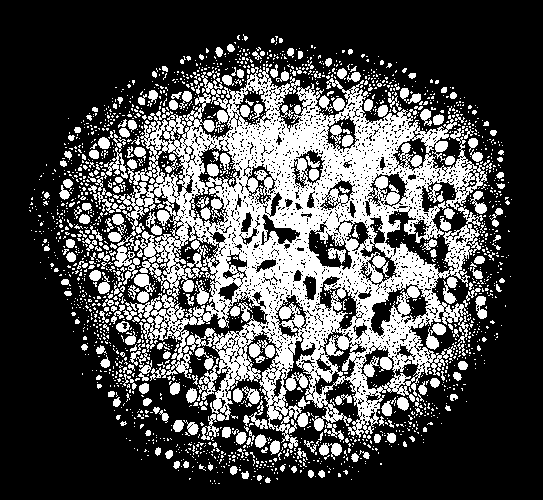
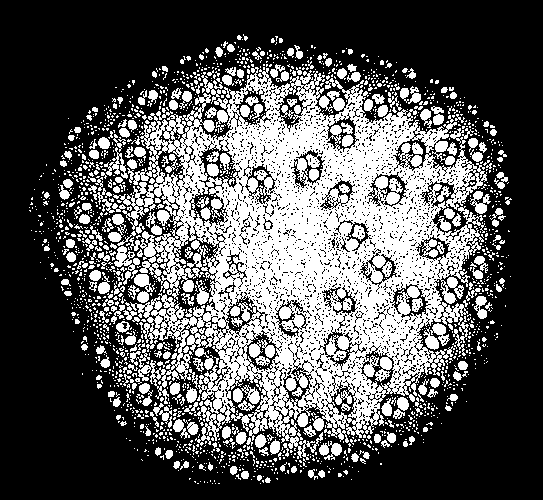
Rollback

diff --git a/morphological/main.py b/morphological/main.py
@@ -69,7 +69,7 @@ def to_binary(img):
     for i in range(img.shape[0]):
         for j in range(img.shape[1]):
             p = img[i, j]
-            if p[0] > 160 and p[2] > 120:
+            if p[0] > 160:
                 ret[i, j] = 255
     return ret
 
@@ -128,21 +128,6 @@ def main():
 
     img = to_binary(img)
     plt.imsave("binary.png", img, cmap="gray")
-    imshow(img)
-
-    img += remove_block(img, 0, lambda x: x <= 4)
-    img -= remove_block(img, 255, lambda x: x <= 4)
-    plt.imsave("remove_small_block.png", img, cmap="gray")
-    imshow(img)
-
-    kernel = cv2.getStructuringElement(cv2.MORPH_ELLIPSE, (3, 3), anchor=(1, 1))
-    img = cv2.morphologyEx(img, cv2.MORPH_OPEN, kernel)
-    plt.imsave("open.png", img, cmap="gray")
-    imshow(img)
-
-    img -= remove_block(img, 255, lambda x: x >= 200)
-    img -= remove_block(img, 255, lambda x: x <= 5)
-    plt.imsave("remove_large_block.png", img, cmap="gray")
     imshow(img)
 
 
